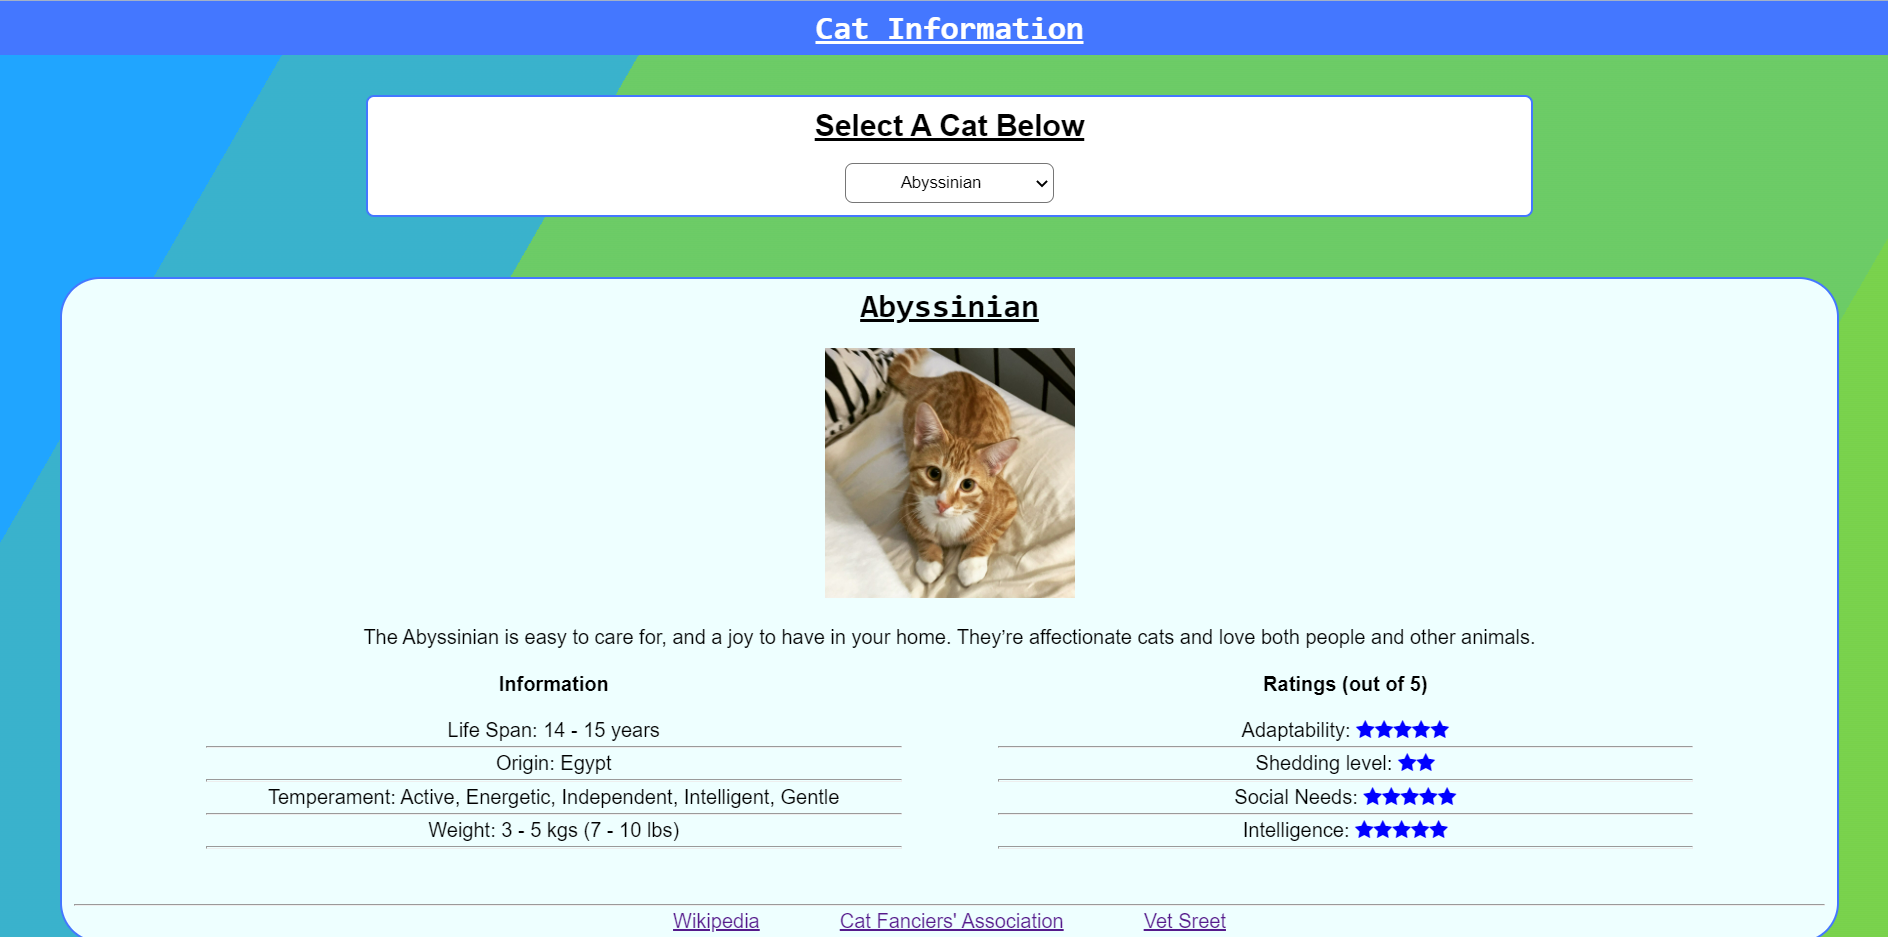
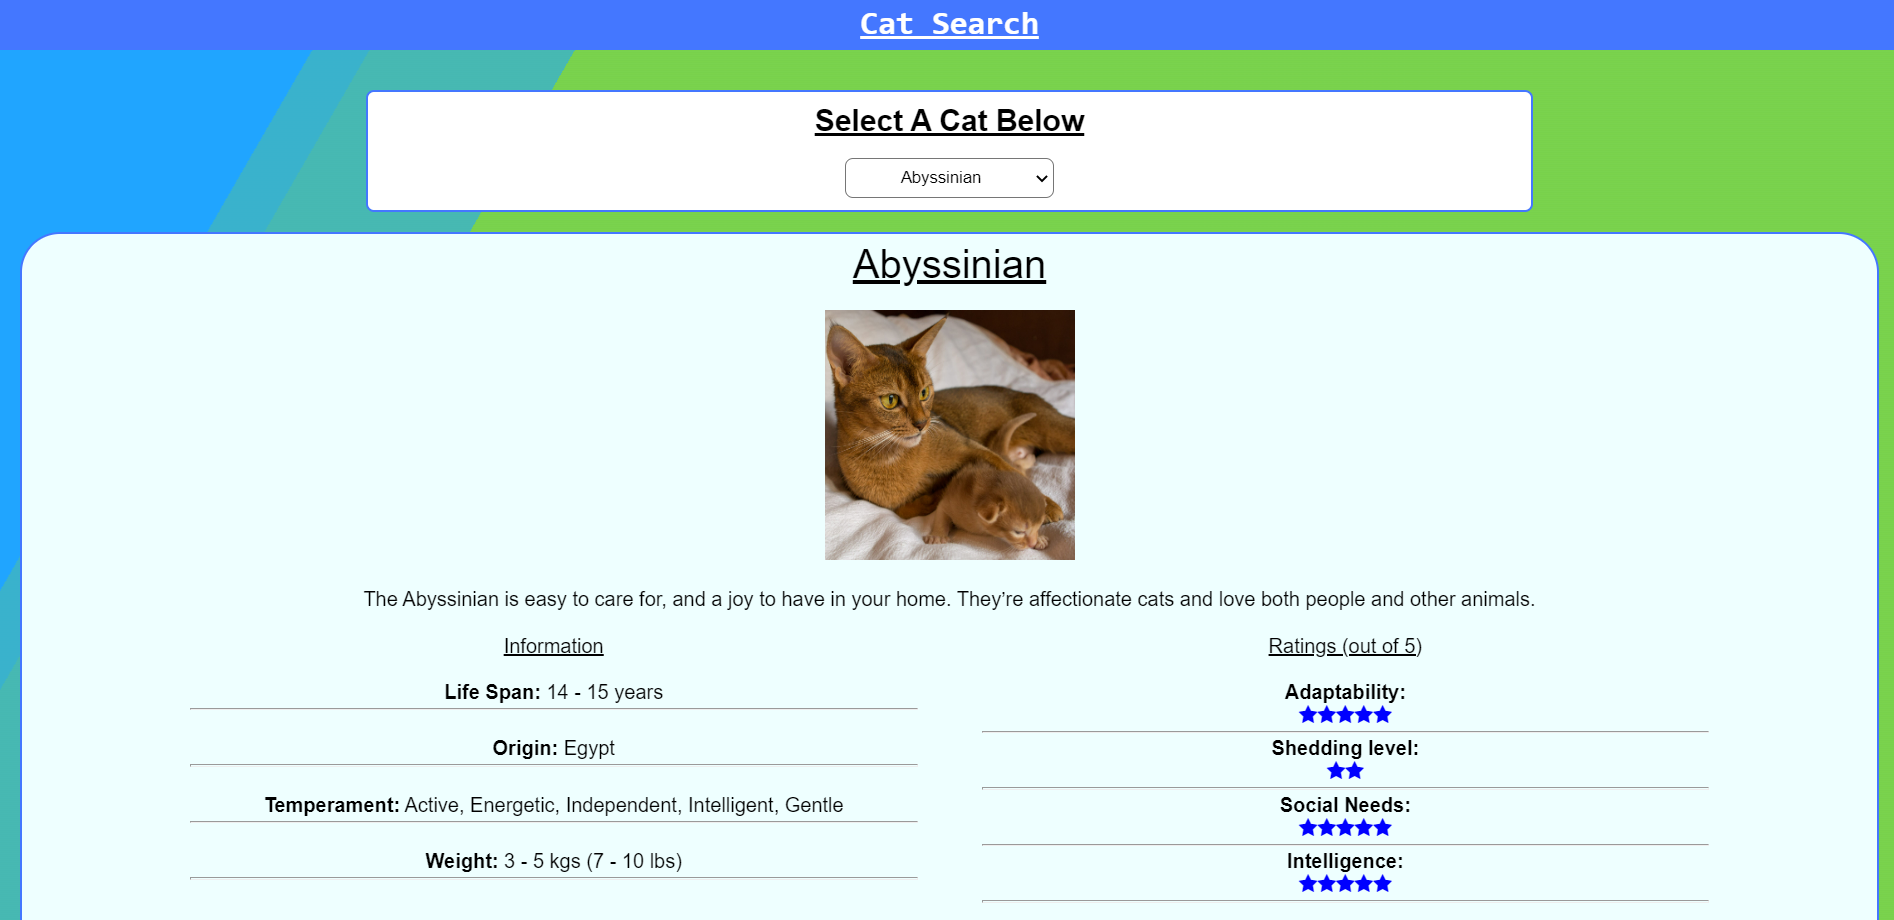
Made subtitles bold in InfoContainer, updated Readme, changed gap spacing of FlexContainer so links don't go outside of the InfoContainer on mobile.

Changed region(s): [[0.0, 0.0, 1.0, 1.0], [0.5938, 0.9739, 0.6562, 1.0]]

diff --git a/src/components/CatBreedInfoPage.js b/src/components/CatBreedInfoPage.js
@@ -11,6 +11,8 @@ import {
   MetaDataContainer,
   Divider,
   Description,
+  SubHeading,
+  Title,
 } from "../styles/CatBreedInfoStyles";
 import { LoadingContainer, ErrorContainer } from "../styles/Utils";
 
@@ -83,11 +85,11 @@ function CatList() {
       {cats && !loading && !error
         ? cats[0].breeds.map((cat, index) => (
             <CatInfoContainer key={index}>
-              <h1 style={{ textDecoration: "underline" }}>{cat.name}</h1>
+              <Title fontSize="2rem">{cat.name}</Title>
               <br />
               <img
                 src={cats[0].url}
-                alt={`Image of ${cat.name}`}
+                alt={`${cat.name}`}
                 width="200"
                 height="200"
               />
@@ -96,29 +98,57 @@ function CatList() {
               <Description> {cat.description}</Description>
               <FlexBox>
                 <MetaDataContainer>
-                  <h4>Information</h4>
+                  <Title>Information</Title>
                   <br />
-                  <p>Life Span: {cat.life_span} years</p>
-                  <Divider />
-                  <p> Origin: {cat.origin} </p>
-                  <Divider />
-                  <p> Temperament: {cat.temperament}</p>
-                  <Divider />
                   <p>
-                    Weight: {cat.weight.metric} kgs ({cat.weight.imperial} lbs)
+                    <SubHeading>Life Span:</SubHeading> {cat.life_span} years
+                  </p>
+                  <Divider />
+                  <br />
+                  <p>
+                    {" "}
+                    <SubHeading>Origin:</SubHeading> {cat.origin}{" "}
+                  </p>
+                  <Divider />
+                  <br />
+                  <p>
+                    {" "}
+                    <SubHeading>Temperament:</SubHeading> {cat.temperament}
+                  </p>
+                  <Divider />
+                  <br />
+                  <p>
+                    <SubHeading> Weight:</SubHeading> {cat.weight.metric} kgs (
+                    {cat.weight.imperial} lbs)
                   </p>
                   <Divider />
                 </MetaDataContainer>
                 <MetaDataContainer>
-                  <h4>Ratings (out of 5)</h4>
+                  <Title>Ratings (out of 5)</Title>
                   <br />
-                  <p>Adaptability: {renderStars(cat.adaptability)}</p>
+                  <p>
+                    <SubHeading> Adaptability:</SubHeading>
+                    <br /> {renderStars(cat.adaptability)}
+                  </p>
                   <Divider />
-                  <p> Shedding level: {renderStars(cat.shedding_level)}</p>
+                  <p>
+                    {" "}
+                    <SubHeading> Shedding level:</SubHeading>
+                    <br /> {renderStars(cat.shedding_level)}
+                  </p>
                   <Divider />
-                  <p> Social Needs: {renderStars(cat.social_needs)}</p>
+                  <p>
+                    {" "}
+                    <SubHeading> Social Needs: </SubHeading>
+                    <br />
+                    {renderStars(cat.social_needs)}
+                  </p>
                   <Divider />
-                  <p> Intelligence: {renderStars(cat.intelligence)}</p>
+                  <p>
+                    {" "}
+                    <SubHeading>Intelligence:</SubHeading> <br />
+                    {renderStars(cat.intelligence)}
+                  </p>
                   <Divider />
                 </MetaDataContainer>
               </FlexBox>

diff --git a/src/styles/CatBreedInfoStyles.js b/src/styles/CatBreedInfoStyles.js
@@ -3,11 +3,13 @@ import styled from "styled-components";
 export const CatInfoContainer = styled.div`
   background-color: #eeffff;
   text-align: center;
+
   padding: 0.4rem;
-  margin: 3rem;
+  margin: 1rem;
+
   border: 0.1rem solid #4477ff;
   border-radius: 2rem;
-  transition: box-shadow 0.2s;
+  transition: box-shadow 0.4s;
 
   &:hover {
     box-shadow: 0.4rem 0.4rem 0.4rem black;
@@ -17,7 +19,7 @@ export const CatInfoContainer = styled.div`
 export const FlexBox = styled.div`
   display: flex;
   justify-content: center;
-  gap: 2rem;
+  gap: 0.4rem;
 `;
 
 export const MetaDataContainer = styled.div`
@@ -35,4 +37,13 @@ export const Description = styled.p`
   text-align-last: center;
   width: 80%;
   margin: auto;
+`;
+
+export const SubHeading = styled.span`
+  font-weight: bold;
+`;
+
+export const Title = styled.p`
+  text-decoration: underline;
+  font-size: ${(props) => props.fontSize};
 `;

diff --git a/src/components/Header.js b/src/components/Header.js
@@ -3,7 +3,7 @@ import { HeaderContainer, HeaderTitle } from "../styles/HeaderStyles";
 function Header() {
   return (
     <HeaderContainer>
-      <HeaderTitle>Cat Information</HeaderTitle>
+      <HeaderTitle>Cat Search</HeaderTitle>
     </HeaderContainer>
   );
 }

diff --git a/README.md b/README.md
@@ -1,7 +1,8 @@
-<h1>Cat App</h1>
+<h1>Cat Search</h1>
 
 This project was built with create-react-app. To run the app simply clone the repo and run ```npm install``` in the directory and then ```npm run start```.
 
-It was built as a take home project for a company  with instructions to retrieve data from <a href="https://thecatapi.com/" target="_blank">a cat API </a> and render it to the page using any framework/language I wanted. I chose React beacuse its the one I enjoy using the most and the one I have the most experience in.
+It was built as a short take home project for a company  with instructions to retrieve data from an [REST API](https://thecatapi.com/) and render it to the page using any framework/language I wanted. I chose React because its the one I enjoy using the most and the one I have the most experience in.
 
-![Screenshot of app](./public/AppScreenshot.PNG)
+![Screenshot of Cat Search](./public/AppScreenshot.PNG)
+
